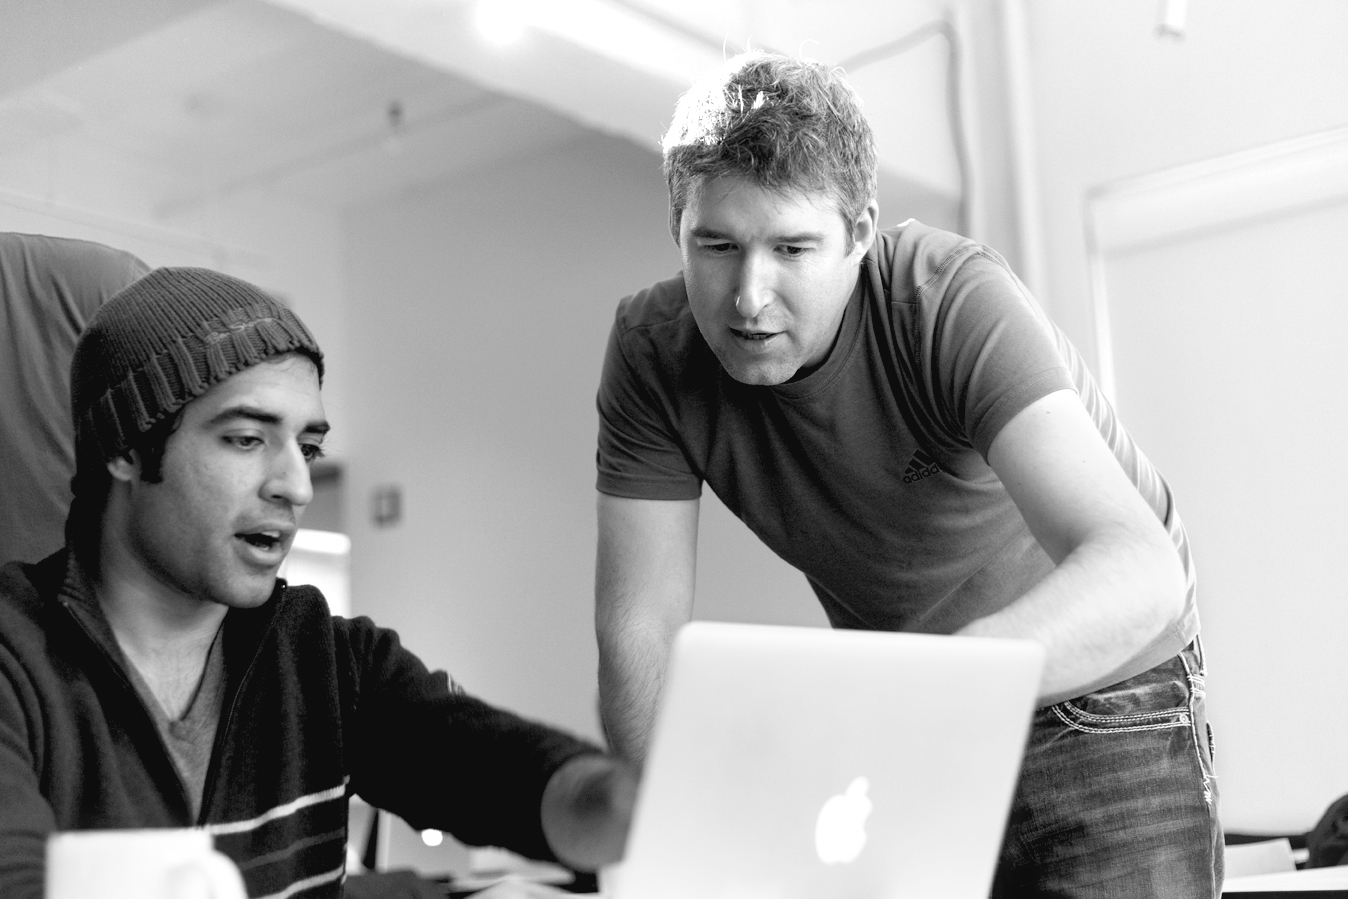
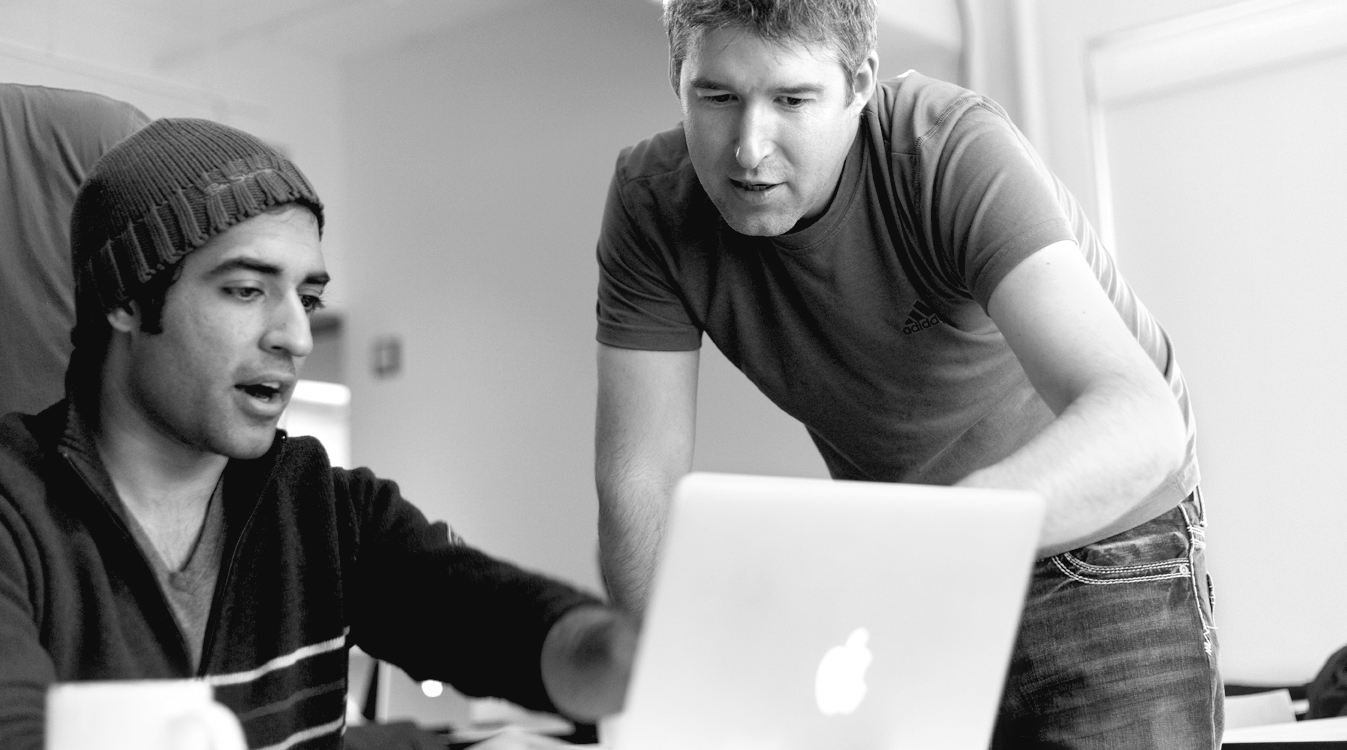
homework changes testing

diff --git a/homework two/startup_matchmaker_advanced/index.html b/homework two/startup_matchmaker_advanced/index.html
@@ -7,6 +7,11 @@
     <meta name="description" content="">
     <meta name="viewport" content="width=device-width, initial-scale=1">
     <link rel="shortcut icon" type="image/ico" href="images/favicon.ico" />
+    <link href='https://fonts.googleapis.com/css?family=Oswald:700' rel='stylesheet' type='text/css'>
+    <link href='https://fonts.googleapis.com/css?family=Merriweather:700' rel='stylesheet' type='text/css'>
+    <link href='https://fonts.googleapis.com/css?family=Source+Sans+Pro' rel='stylesheet' type='text/css'>
+    <link href='https://fonts.googleapis.com/css?family=Merriweather:700italic' rel='stylesheet' type='text/css'>
+    <link href='https://fonts.googleapis.com/css?family=Source+Sans+Pro:700' rel='stylesheet' type='text/css'>
 
 
     <link rel="stylesheet" href="css/normalize.css">
@@ -15,26 +20,32 @@
 
 <body> 
 
+<div class="site">
 	<header>
 		<h1><a href="#">Startup Matchmaker</a></h1>
 		<nav>
 	      <ul>
-	        <li><strong><a href="developers.html">Developers</a></strong></li>
-	        <li><strong><a href="designers.html">Designers</a></strong></li>
+	        <li><span><a href="developers.html">Developers</a></span></li>
+	        <li><span><a href="designers.html">Designers</a></span></li>
 	        <li><a href="#">How it Works</a></li>
 	        <li><a href="#">Our Team</a></li>
 	        <li><a href="#">Blog</a></li>
 	      </ul>
-    	</nav>
+		</nav>
   	</header>
 
-  	<p class= "motto">Because two brains taste are better than one.</p>
+<hr>
 
-  	<div class="picture">
-	  	<div class="square">
-	  		<h1>Meet your Match!</h1>
-	  		<p> Have a great idea for a product, but need help making it a reality? We’re here to help. Startup Matchmaker is the best place for designers and developers to find each other. </p>
-			<a="redbutton" href="#">Create a Profile</a>
+	<div class="picture">
+  		<p class= "heads">Because two brains are better than one.</p>
+
+  		<img src="images/coworking.jpg" alt="image" width="1239px">
+	
+
+		<div class="square">
+		  		<h1>Meet your Match!</h1>
+		  		<p> Have a great idea for a product, but need help making it a reality? We’re here to help. Startup Matchmaker is the best place for designers and developers to find each other. </p>
+				<a href="#">Create a Profile</a>
 		</div>
 	</div>
 
@@ -60,6 +71,6 @@
   	<footer>
 		<p>© 2013 Startup Matchmaker. Made in NY.</p>
 	</footer>
-
+</div>
 </body>
 </html>

diff --git a/homework two/startup_matchmaker_advanced/css/style.css b/homework two/startup_matchmaker_advanced/css/style.css
@@ -1,0 +1,143 @@
+* {
+  box-sizing: border-box;
+}
+
+.clearfix:after {
+  display: table;
+  clear: both;
+  content: "";
+}
+
+.site {
+	width: 1239px
+}
+
+header {
+	background-color: #3A3A3B;
+	height: 80px;
+	display: inline-block;
+	width: 100%;
+}
+
+nav {
+	display: inline-block;
+	width: 50%;
+}
+
+h1 { 
+display: inline-block;
+}
+
+header h1 a {
+	font-family: 'Merriweather', serif;
+	font-size: 30px;
+	display: inline-block;
+	text-decoration: none;
+	color: white;
+	padding-left: 30px;
+}
+
+nav ul li {
+	display: inline-block;
+	font-size: 20px
+	padding: 15px;
+}
+
+ul { 
+	padding-left: 60%; 
+	padding-right: 30px;
+	display: inline;
+	list-style: none;
+
+}
+
+li > a {
+	font-family: 'Source Sans Pro', sans-serif;
+	color: white;
+	font-size: 20px;
+	padding-top: 15px;
+
+}
+
+header nav ul li span { 
+	font-family: 'Oswald', sans-serif;
+	font-size: 20px;
+	font-weight: 700;
+	text-transform: uppercase;
+	color: white; }
+
+nav a {
+	text-decoration: none;
+	display: inline-block;
+	color: white;
+	padding: 5px;
+}
+
+hr {
+	color: #F9D634;
+	background-color: #F9D634;
+	height: 5px;
+	border: 0;
+	margin: 0;
+}
+
+.heads {
+	font-family: 'Merriweather', serif;
+	font-style: italic;
+	font-size: 25px;
+	width: 100%;
+	background-color: #D6E1DC;
+	height: 70px;
+	margin: 0;
+	text-align: center;
+	line-height: 70px;
+	position: absolute; 
+	top: 0px;
+	left: 0px;
+
+}
+
+.picture {
+	width: 100%;
+	position: relative;
+	left: 0px;
+}
+
+.square { 
+	width: 488px;
+	height: 340px;
+	background-color: rgba(255,255,255,0.5);
+	position: absolute;
+  	top: 110px;
+  	left: 715px;
+  	border: solid;
+  	border-width: 0.5px;
+  	border-color: #A1A1A1;
+  }
+
+.square h1 {
+	font-family: 'Source Sans Pro', sans-serif;
+	font-weight: 700;
+	font-size: 25px;
+}
+
+.square p {
+	font-family: 'Source Sans Pro', sans-serif;
+	font-weight: 400;
+	font-size: 20px;
+}
+
+.square a {
+	font-family: 'Oswald', sans-serif;
+	font-weight: 700;
+	text-transform: uppercase;
+	height: 53px;
+	width: 399px;
+	background-color: #E6403D;
+	text-decoration: none;
+	display: inline-block;
+	border: none;
+	text-align: center;
+	line-height: 53px;
+	color: white;
+}
